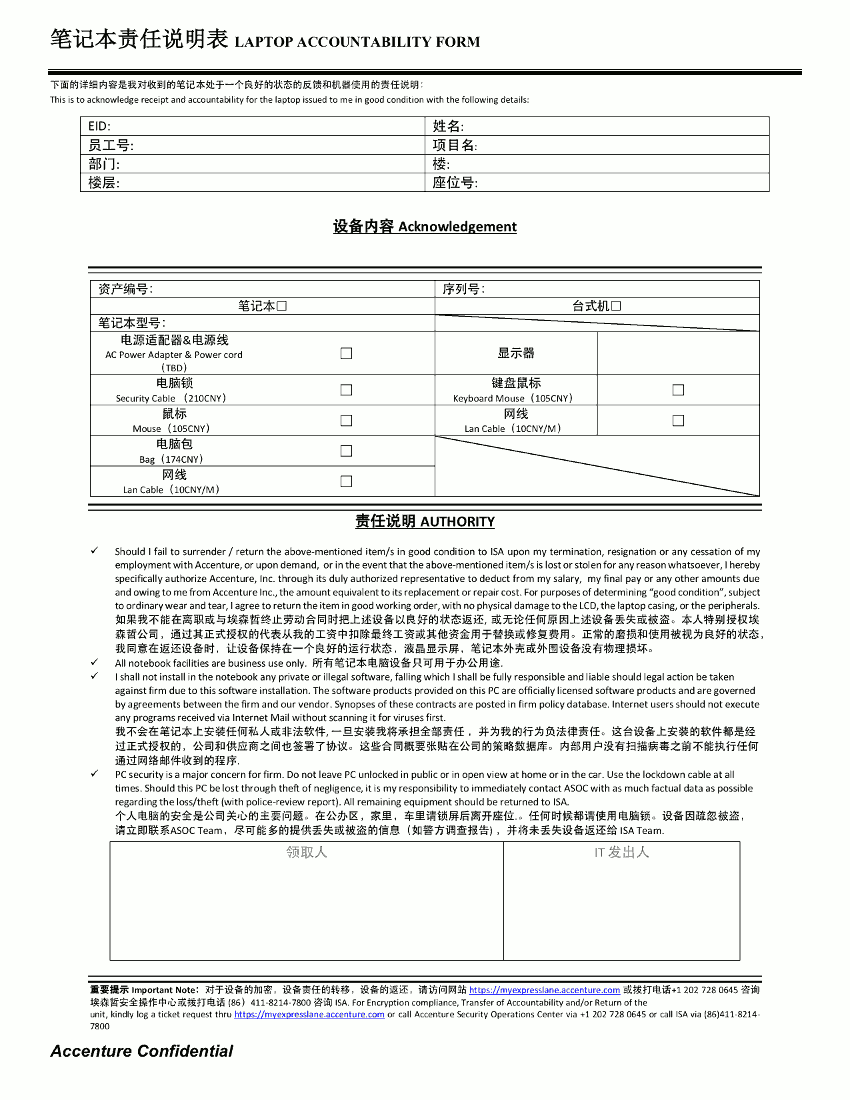
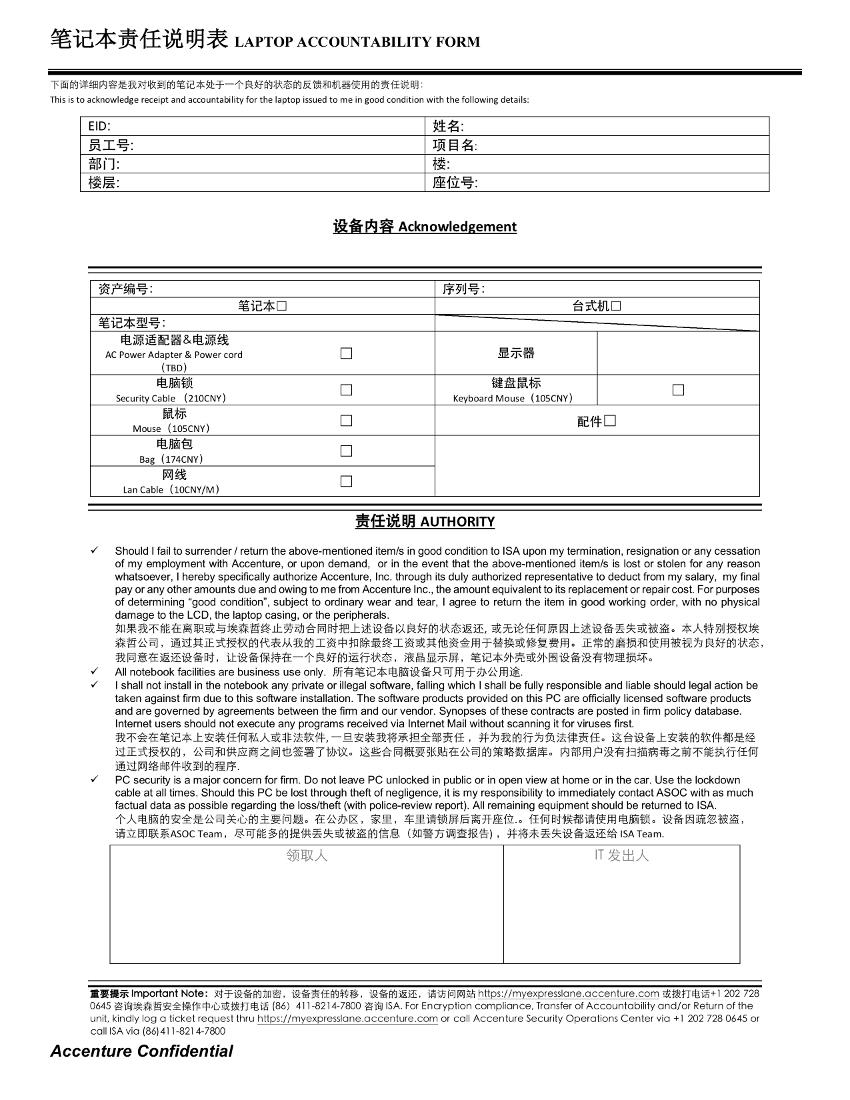
配件功能

diff --git a/antd-web/src/routes/Delivery/flow/ConfirmForm.jsx b/antd-web/src/routes/Delivery/flow/ConfirmForm.jsx
@@ -43,30 +43,6 @@ const ConfirmForm = ({
       {data.remarks}
     </Form.Item>
     <Divider style={{ margin: '24px 0' }} />
-    <Form.Item {...formItemLayout} label={t('资产编号')}>
-      {getFieldDecorator('assetTag', {
-              rules: [
-                {
-                  required: true,
-                  message: t('请输入资产编号'),
-                },
-                {
-                  pattern: /^[A-Za-z0-9-_,]+$/,
-                  message: t('请输入资产编号'),
-                },
-              ],
-            })(<Input maxLength={100} placeholder={t('请输入资产编号')} />)}
-    </Form.Item>
-    <Form.Item {...formItemLayout} label={t('序列号')}>
-      {getFieldDecorator('serialTag', {
-              rules: [
-                {
-                  required: true,
-                  message: t('请输入序列号'),
-                },
-              ],
-            })(<Input maxLength={100} placeholder={t('请输入序列号')} />)}
-    </Form.Item>
     {
       data.machineType ? (
         <Form.Item {...formItemLayout} label={t('机型')}>
@@ -85,10 +61,43 @@ const ConfirmForm = ({
               <RadioGroup >
                 <Radio value="desktop">{t('台式机')}</Radio>
                 <Radio value="laptop">{t('笔记本')}</Radio>
+                <Radio value="peripheral">{t('配件')}</Radio>
               </RadioGroup>
           )}
         </Form.Item>
       )}
+    {
+      (getFieldValue('machineType') === 'desktop' || getFieldValue('machineType') === 'laptop') && (
+        <Form.Item {...formItemLayout} label={t('资产编号')}>
+          {getFieldDecorator('assetTag', {
+                rules: [
+                  {
+                    required: true,
+                    message: t('请输入资产编号'),
+                  },
+                  {
+                    pattern: /^[A-Za-z0-9-_,]+$/,
+                    message: t('请输入资产编号'),
+                  },
+                ],
+              })(<Input maxLength={100} placeholder={t('请输入资产编号')} />)}
+      </Form.Item>
+      )
+    }
+    {
+      (getFieldValue('machineType') === 'desktop' || getFieldValue('machineType') === 'laptop') && (
+        <Form.Item {...formItemLayout} label={t('序列号')}>
+          {getFieldDecorator('serialTag', {
+                rules: [
+                  {
+                    required: true,
+                    message: t('请输入序列号'),
+                  },
+                ],
+              })(<Input maxLength={100} placeholder={t('请输入序列号')} />)}
+        </Form.Item>
+      )
+    }
     {
       getFieldValue('machineType') === 'desktop' &&
         (
@@ -211,6 +220,31 @@ const ConfirmForm = ({
           <Switch />
         )}
       </Form.Item>
+)
+    }
+    {
+      getFieldValue('machineType') === 'peripheral' &&
+        (
+        <Form.Item
+          {...formItemLayout}
+          label={t('配件')}
+        >
+          {getFieldDecorator('peripheralModel', {
+          rules: [
+            {
+              message: t('请输入配件信息'),
+            },
+          ],
+            })(
+              <Select
+                mode="combobox"
+                style={{ width: '100%' }}
+                maxLength={100}
+                placeholder={t('请输入配件信息')}
+              >
+              </Select>
+          )}
+        </Form.Item>
 )
     }
     <Divider style={{ margin: '24px 0' }} />

diff --git a/antd-web/src/i18n.js b/antd-web/src/i18n.js
@@ -52,7 +52,6 @@ i18n.use(LanguageDetector).init({
         "请输入或选择角色":"please input or select role",
         "请输入或选择项目":"please input or select project",
         "请输入您办公地点的楼号":"please input the building number of your office",
-        "请输入您办公地点的楼层":"please input the floor of your office",
         "请输入您办公地点的座位号":"please input the seat number of your office",
         "姓名":"Name",
         "模块详情页面":"Module Specification Page",
@@ -60,7 +59,6 @@ i18n.use(LanguageDetector).init({
         "角色":"Role",
         "员工号":"Sap Number",
         "楼号":"Office Location",
-        "楼层":"Floor",
         "座位号":"Seat Number",
         "您的EID":"Your EID",
         "eid":"EID",
@@ -188,6 +186,8 @@ i18n.use(LanguageDetector).init({
         "触发404":"Triggered 404",
         "点击EID的“查询”按钮进行验证":"The 'EID' should be verified via LDAP",
         "默认请于期望日期的上午9点钟前处理设备移交":"Device Handover should be finished before 9:00 am of due date",
+        "配件":"Accessories",
+        "请输入配件信息":"Please enter the accessory information",
       },
     },
     zh: {
@@ -238,7 +238,6 @@ i18n.use(LanguageDetector).init({
         "请输入或选择角色":"请输入或选择角色",
         "请输入或选择项目":"请输入或选择项目",
         "请输入您办公地点的楼号":"请输入您办公地点的楼号",
-        "请输入您办公地点的楼层":"请输入您办公地点的楼层",
         "请输入您办公地点的座位号": "请输入您办公地点的座位号",
         "姓名":"姓名",
         "模块详情页面":"模块详情页面",
@@ -246,7 +245,6 @@ i18n.use(LanguageDetector).init({
         "角色":"角色",
         "员工号":"员工号",
         "楼号":"楼号",
-        "楼层":"楼层",
         "座位号":"座位号",
         "您的EID":"您的EID",
         "eid":"EID",
@@ -372,6 +370,8 @@ i18n.use(LanguageDetector).init({
         "触发404":"触发404",
         "点击EID的“查询”按钮进行验证":"点击EID的“查询”按钮进行验证",
         "默认请于期望日期的上午9点钟前处理设备移交":"默认请于期望日期的上午9点钟前处理设备移交",
+        "配件":"配件",
+        "请输入配件信息":"请输入配件信息",
       },
     },
   fallbackLng: "en",

diff --git a/antd-web/src/routes/Delivery/flow/ConfirmReturnForm.jsx b/antd-web/src/routes/Delivery/flow/ConfirmReturnForm.jsx
@@ -48,7 +48,7 @@ const ConfirmForm = ({
         <Form.Item {...formItemLayout} label={t('资产编号')}>
           {data.assetTag}
         </Form.Item>
-      ) : (
+      ) : data.machineType !== 'peripheral' ? (
         <Form.Item {...formItemLayout} label={t('资产编号')}>
           {getFieldDecorator('assetTag', {
             rules: [
@@ -65,13 +65,13 @@ const ConfirmForm = ({
               <Input maxLength={100} placeholder={t('请输入资产编号')} />
           )}
         </Form.Item>
-      )}
+      ) : ''}
     {
     data.serialTag ? (
       <Form.Item {...formItemLayout} label={t('序列号')}>
         {data.serialTag}
       </Form.Item>
-    ) : (
+    ) : data.machineType !== 'peripheral' ? (
       <Form.Item {...formItemLayout} label={t('序列号')}>
         {getFieldDecorator('serialTag', {
           rules: [
@@ -82,7 +82,7 @@ const ConfirmForm = ({
           ],
         })(<Input maxLength={100} placeholder={t('请输入序列号')} />)}
       </Form.Item>
-    )}
+    ) : ''}
     {
     data.machineType ? (
       <Form.Item {...formItemLayout} label={t('机型')}>
@@ -101,8 +101,26 @@ const ConfirmForm = ({
             <RadioGroup >
               <Radio value="desktop">{t('台式机')}</Radio>
               <Radio value="laptop">{t('笔记本')}</Radio>
+              <Radio value="peripheral">{t('配件')}</Radio>
             </RadioGroup>
         )}
+      </Form.Item>
+    )}
+    {
+    data.serialTag || data.machineType === 'peripheral' ? (
+      <Form.Item {...formItemLayout} label={t('配件')}>
+        {data.peripheral}
+      </Form.Item>
+    ) : (
+      <Form.Item {...formItemLayout} label={t('配件')}>
+        {getFieldDecorator('peripheralModel', {
+          rules: [
+            {
+              required: true,
+              message: t('请输入配件信息'),
+            },
+          ],
+        })(<Input maxLength={100} placeholder={t('请输入配件信息')} />)}
       </Form.Item>
     )}
     {
@@ -170,8 +188,13 @@ const ConfirmForm = ({
       {data.lanCable?'Yes':'No'}
     </Form.Item>
   )}
+    {data.assetTag && (
+    <Form.Item {...formItemLayout} label={t('配件')} >
+      {data.peripheralModel?'Yes':'No'}
+    </Form.Item>
+  )}
     {
-    !data.assetTag && <div>{t('没有借取记录')}</div>
+    !data.assetTag || data.machineType === 'peripheral' && <div>{t('没有借取记录')}</div>
   }
     <Divider style={{ margin: '24px 0' }} />
     {

diff --git a/antd-web/src/routes/Delivery/flow/Return3.jsx b/antd-web/src/routes/Delivery/flow/Return3.jsx
@@ -42,8 +42,8 @@ class Step3 extends React.PureComponent {
     ctx.fillText(data.locationBuilding || '', 520, 168);
     ctx.fillText(data.locationSeat || '', 520, 187);
 
-    ctx.fillText(data.assetTag, 180, 293);
-    ctx.fillText(data.serialTag.toUpperCase(), 520, 293);
+    ctx.fillText(data.assetTag || '', 180, 293);
+    ctx.fillText(data.serialTag ? data.serialTag.toUpperCase() : '', 520, 293);
 
     ctx.fillText('*', data.machineType === 'laptop' ? 277 : 611, 312);
 

diff --git a/antd-web/src/routes/Delivery/flow/Borrow3.jsx b/antd-web/src/routes/Delivery/flow/Borrow3.jsx
@@ -43,7 +43,7 @@ class Step3 extends React.PureComponent {
     ctx.fillText(data.locationSeat || '', 520, 187);
 
     ctx.fillText(data.assetTag, 180, 293);
-    ctx.fillText(data.serialTag.toUpperCase(), 520, 293);
+    ctx.fillText(data.serialTag ? data.serialTag.toUpperCase() : '', 520, 293);
 
     ctx.fillText('*', data.machineType === 'laptop' ? 277 : 611, 312);
 

diff --git a/spring-service/src/main/java/com/accenture/svc/dir/iaa/controller/DeliveryController.java b/spring-service/src/main/java/com/accenture/svc/dir/iaa/controller/DeliveryController.java
@@ -185,7 +185,8 @@ public class DeliveryController extends AbstractController {
                             "日期 return_date",
                             "接受人 received_by",
                             "单号 reference_number",
-                            "备注 remarks"
+                            "备注 remarks",
+                            "配件 peripheralModel"
                     };
                 }
 
@@ -251,6 +252,8 @@ public class DeliveryController extends AbstractController {
                             return data.getReferenceNumber();
                         case 26:
                             return data.getRemarks();
+                        case 27:
+                            return data.getPeripheralModel();
                         default:
                             return "";
                     }

diff --git a/spring-service/src/main/java/com/accenture/svc/dir/iaa/entity/Delivery.java b/spring-service/src/main/java/com/accenture/svc/dir/iaa/entity/Delivery.java
@@ -75,6 +75,16 @@ public class Delivery {
     private String referenceNumber;
     //	备注 remarks
     private String remarks;
+    //	备注 peripheralModel
+    private String peripheralModel;
+
+    public String getPeripheralModel() {
+        return peripheralModel;
+    }
+
+    public void setPeripheralModel(String peripheralModel) {
+        this.peripheralModel = peripheralModel;
+    }
 
     public Long getId() {
         return id;
